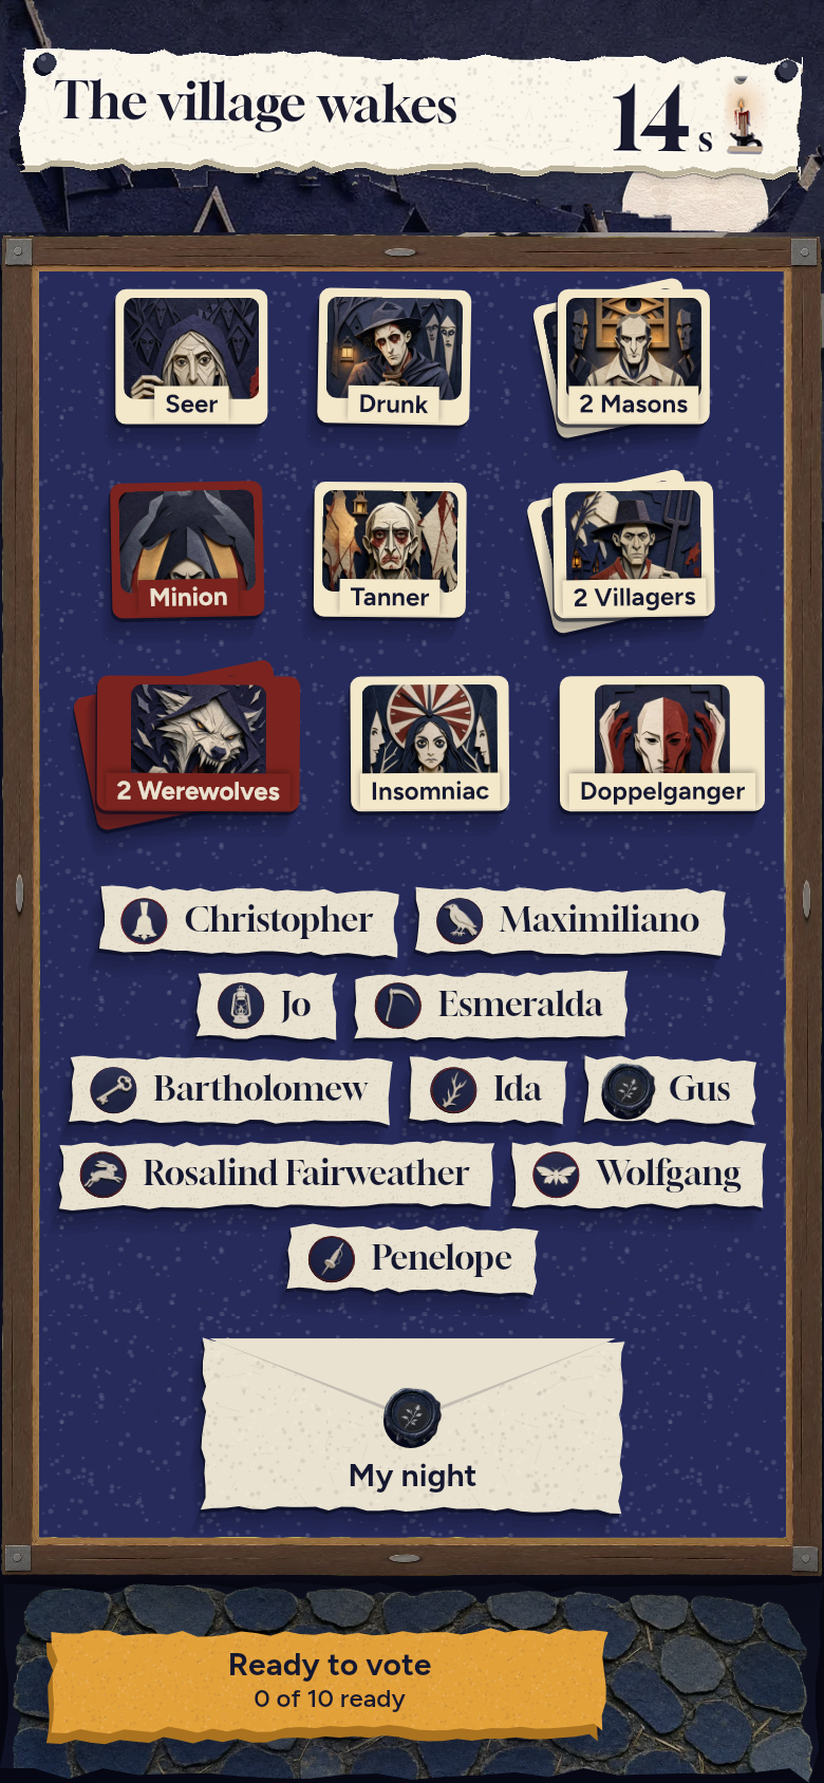
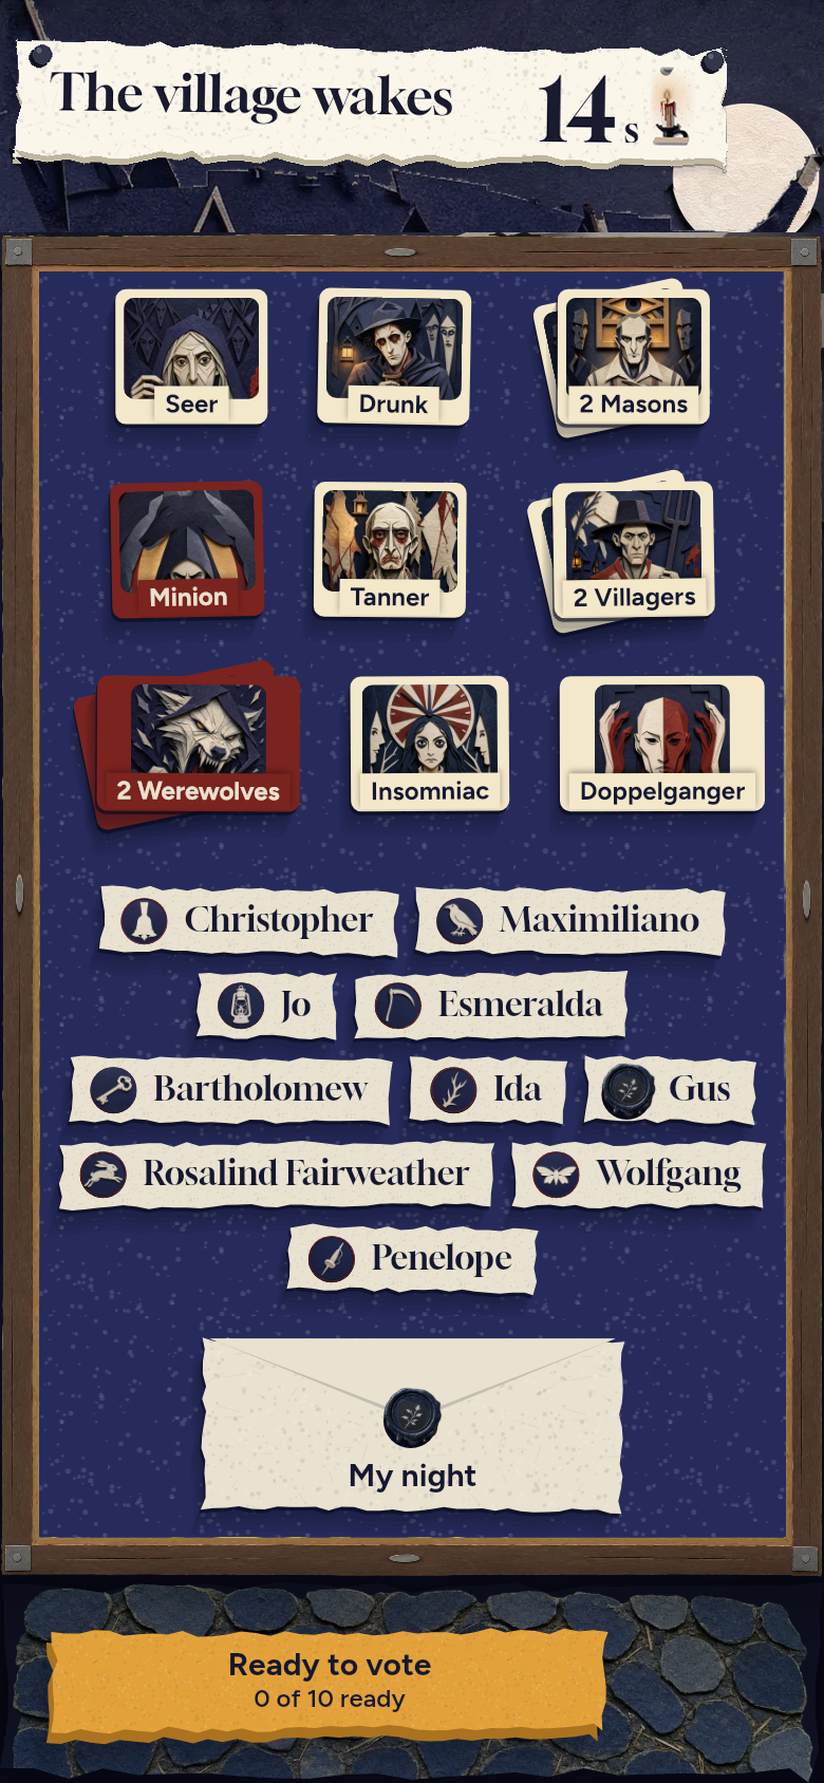
docs(design): options for the top of the talk screen
Claude-Session: https://claude.ai/code/session_01Gu8f2kSWMj5uRKDta8kGNG

Changed region(s): [[0.0, 0.0, 0.6068, 0.1234], [0.5765, 0.0, 1.0, 0.1542]]

diff --git a/docs/design/mocks/options/talk-top/make_mocks.py b/docs/design/mocks/options/talk-top/make_mocks.py
@@ -1,5 +1,9 @@
 """Options for the top of the talk screen (08): today, A, B and C, at 5 and 10 players.
 
+A: one banner (the night's and your card's) over the night sky. B: the board's roof at the top and the clock on a
+paper sign hung from its eave; at 6 players or fewer the deck is drawn larger. C: a strip of night sky with the
+roofline and the moon, the clock on the same sign hung from the lantern's bracket.
+
 Each picture is cut from the app's own renders of main (25 Nov 2026; `just screens`) and its art,
 then scaled to a 412 pt phone (824 px). Run from anywhere:
 
@@ -10,11 +14,10 @@ The renders used: 08-talk-put-away (5 players, My night put away), 08-talk-10-lo
 """
 
 import argparse
-import random
 from pathlib import Path
 
 import numpy as np
-from PIL import Image, ImageDraw, ImageEnhance
+from PIL import Image, ImageDraw, ImageEnhance, ImageFilter
 
 import paper as P
 
@@ -26,8 +29,15 @@ BLOCKS = {
     5: [(352, 797), (962, 1126), (1258, 1442)],
     10: [(248, 797), (822, 1226), (1258, 1442)],
 }
-NAME_ROWS = {5: [1003, 1084], 10: [865, 945, 1025, 1106, 1185]}
-READY = {5: [1, 3], 10: [1, 4, 8]}  # C shows some tags turned; the button counts them
+CORD = (176, 156, 120, 255)
+# B at 5 players: the deck's piles (x0, y0, x1, y1 in 08-talk-put-away), drawn larger in two columns.
+PILES = [
+    (52, 355, 238, 535),
+    (256, 355, 443, 536),
+    (472, 355, 714, 554),
+    (167, 573, 389, 792),
+    (435, 574, 626, 792),
+]
 
 
 def load(screens, name):
@@ -66,9 +76,9 @@ def night_sky(h):
     glow = Image.new("RGBA", (W, h), (0, 0, 0, 0))
     gd = ImageDraw.Draw(glow)
     for i, r in enumerate(range(170, 70, -10)):
-        gd.ellipse((655 - r, 205 - r, 655 + r, 205 + r), fill=(220, 226, 255, 5 + i))
+        gd.ellipse((700 - r, 170 - r, 700 + r, 170 + r), fill=(220, 226, 255, 5 + i))
     sky.alpha_composite(glow)
-    sky.alpha_composite(moon, (580, 132))
+    sky.alpha_composite(moon, (628, 98))
     roofs = P.art("layers/dawn_gallows/roofs_mid.webp")
     roofs = roofs.resize((W, int(roofs.height * W / roofs.width)), Image.LANCZOS)
     rgb = ImageEnhance.Brightness(roofs.convert("RGB")).enhance(0.85)
@@ -98,14 +108,62 @@ def banner(paper, nb, w, h, title):
 def option_a(t, n, nb, paper):
     sky_h = 220
     top = night_sky(sky_h)
-    b = banner(paper, nb, 742, 112, "The village wakes")
-    P.stamp(top, b, (16, 44), drop=6, lean=-0.6)
+    b = banner(paper, nb, 676, 112, "The village wakes")
+    P.stamp(top, b, (12, 36), drop=6, lean=-0.6)
     plank = t.crop((0, 200, W, 237))
     foot = t.crop((0, 1455, W, H))
     return stack([top, plank, body(t, n, H - sky_h - 37 - foot.height), foot])
 
 
 # ---------------------------------------------------------------- B: the board's own sign
+def pile(t, box, scale):
+    """One pile of the deck lifted off the felt with its shadow, drawn `scale` times larger."""
+    x0, y0, x1, y1 = box
+    m = 16
+    crop = t.crop((x0 - m, y0 - m, x1 + m, y1 + m))
+    dev = np.abs(
+        np.asarray(crop.convert("RGB")).astype(int) - np.array([38, 43, 92])
+    ).sum(axis=2)
+    keep = dev > 40
+    keep[:, :8] = keep[:, -8:] = (
+        False  # the crop's own edge (the frame can reach into it)
+    )
+    keep[:8], keep[-8:] = False, False
+    alpha = Image.fromarray((keep * 255).astype("uint8"))
+    alpha = alpha.filter(ImageFilter.MaxFilter(11)).filter(ImageFilter.GaussianBlur(4))
+    crop.putalpha(alpha)
+    return crop.resize(
+        (round(crop.width * scale), round(crop.height * scale)), Image.LANCZOS
+    ), m
+
+
+def large_deck_body(t, height, g0, scale=1.15):
+    """At 6 players or fewer: the piles larger, in two columns, and the three groups spaced evenly."""
+    tiles = Image.new("RGBA", (W, height))
+    for y in range(0, height, CLEAN.height):
+        tiles.paste(CLEAN, (0, y))
+    rows = [PILES[0:2], PILES[2:4], PILES[4:5]]
+    row_h = [round(max(b[3] - b[1] for b in r) * scale) for r in rows]
+    deck_h = sum(row_h) + 2 * 22
+    names = t.crop((0, 962, W, 1126))
+    note = t.crop((0, 1258, W, 1442))
+    free = height - g0 - 13 - deck_h - names.height - note.height
+    gap = free / 2.8
+    y = g0 + round(gap * 0.4)
+    for r, h in zip(rows, row_h):
+        sprites = [pile(t, b, scale) for b in r]
+        widths = [s.width - 2 * m * scale for s, m in sprites]
+        x = (W - sum(widths) - 44 * (len(r) - 1)) / 2
+        for (s, m), w in zip(sprites, widths):
+            tiles.alpha_composite(s, (round(x - m * scale), round(y - m * scale)))
+            x += w + 44
+        y += h + 22
+    y += round(gap) - 22
+    tiles.paste(names, (0, y))
+    tiles.paste(note, (0, y + names.height + round(gap)))
+    return tiles
+
+
 def lantern(height):
     lan = P.art("end/lantern.webp").transpose(Image.FLIP_LEFT_RIGHT)
     return lan.resize((int(lan.width * height / lan.height), height), Image.LANCZOS)
@@ -130,13 +188,17 @@ def option_b(t, n, nb, paper):
     top.paste(t.crop((0, 141, W, 237)), (0, 40))
     foot = t.crop((0, 1455, W, H))
     sign_top, sign_bottom = 112, 230
-    board = body(t, n, H - 136 - foot.height, g0_min=sign_bottom + 16 - 136)
+    g0 = sign_bottom + 16 - 136
+    if n <= 6:
+        board = large_deck_body(t, H - 136 - foot.height, g0)
+    else:
+        board = body(t, n, H - 136 - foot.height, g0_min=g0)
     page = stack([top, board, foot])
     d = ImageDraw.Draw(page)
     s = sign(paper, nb)
     sx = (W - s.width) // 2
     for nx in (sx + 26, sx + s.width - 16):  # cords from the eave to the sign's pins
-        d.line([(nx, 92), (nx, sign_top + 14)], fill=(150, 132, 104, 255), width=3)
+        d.line([(nx, 92), (nx, sign_top + 14)], fill=CORD, width=5)
         d.ellipse((nx - 5, 88, nx + 5, 98), fill=(40, 40, 52, 255))
     P.stamp(page, s, (sx, sign_top), drop=6, lean=-0.6)
     lan = lantern(181)
@@ -144,7 +206,7 @@ def option_b(t, n, nb, paper):
     return page
 
 
-# ---------------------------------------------------------------- C: the table's faces
+# ---------------------------------------------------------------- the clock off today's sky (B)
 def clear_clock(img):
     """Take today's big clock off the sky (filled down each column, so the gallows post stays)."""
     a = np.asarray(img).astype(float)
@@ -170,113 +232,58 @@ def clear_clock(img):
     return Image.fromarray(a.astype("uint8"))
 
 
-def sigils(t, n):
-    """Where each name tag's sigil disc is, in reading (seat) order: 37 px in from the tag's left edge."""
-    a = np.asarray(t.convert("RGB")).astype(int)
-    lum = a.mean(axis=2)
-    out = []
-    for y in NAME_ROWS[n]:
-        x = 40
-        while x < 700:
-            felt = ((a[y, x - 16 : x - 2, 2] - a[y, x - 16 : x - 2, 0]) > 40).any()
-            if (
-                felt
-                and (lum[y, x - 8 : x - 2] < 110).all()
-                and (lum[y, x : x + 12] > 170).all()
-            ):
-                left = x + 12 + int(np.argmax(lum[y, x + 12 : x + 40] < 110))
-                cx = left + 23
-                if (lum[y, cx - 20 : cx + 20] < 110).mean() > 0.25:
-                    out.append((cx, y, 46))
-                    x += 100
-                    continue
-            x += 1
-    return out
-
-
-def sigil_crops(t, n):
-    """Each name tag's own sigil disc, cut from the render (so a tag is the same token as its name)."""
-    a = np.asarray(t.convert("RGB")).astype(float)
-    lum = a.mean(axis=2)
-    yy, xx = np.mgrid[-32:33, -32:33]
-    r = np.hypot(xx, yy)
-    crops = []
-    for cx, cy, _ in sigils(t, n):
-        best = None
-        for dy in range(-10, 11):
-            for dx in range(-8, 9):
-                win = lum[cy + dy - 32 : cy + dy + 33, cx + dx - 32 : cx + dx + 33]
-                score = (
-                    win[(r > 25) & (r < 28)].mean() - win[(r > 18) & (r < 21.5)].mean()
-                )
-                if best is None or score > best[0]:
-                    best = (score, cx + dx, cy + dy)
-        _, x, y = best
-        crops.append(t.convert("RGB").crop((x - 23, y - 23, x + 23, y + 23)))
-    return crops
-
-
-def tag(sigil, d, turned, paper, seed):
-    tok = sigil.resize((d, d), Image.LANCZOS)
-    m = Image.new("L", (d, d), 0)
-    ImageDraw.Draw(m).ellipse((1, 1, d - 2, d - 2), fill=255)
-    if turned:  # the tag turned over: bone paper, the sigil in ink
-        face = paper.fill(d, d, seed).convert("RGB")
-        lum = np.asarray(tok).mean(axis=2)
-        sil = Image.fromarray(((lum > 150) * 255).astype("uint8"))
-        inner = Image.new("L", (d, d), 0)
-        ImageDraw.Draw(inner).ellipse(
-            (d * 0.12, d * 0.12, d * 0.88, d * 0.88), fill=255
+# ---------------------------------------------------------------- C: the square's sky
+def bracket(page, x0, x1, y):
+    """The lantern's iron bracket carried out along the eave: a bar, a brace and a curl."""
+    d = ImageDraw.Draw(page)
+    iron, shade = (34, 38, 40, 255), (7, 9, 26, 150)
+    for off, col in (((-3, 4), shade), ((0, 0), iron)):
+        ox, oy = off
+        d.line([(x0 + ox, y + oy), (x1 + ox, y + oy)], fill=col, width=7)
+        d.line(
+            [(x1 - 4 + ox, y + 52 + oy), (x1 - 120 + ox, y + 2 + oy)], fill=col, width=5
         )
-        sil = Image.fromarray(np.minimum(np.asarray(sil), np.asarray(inner)))
-        face.paste(Image.new("RGB", (d, d), P.INK), (0, 0), sil)
-        ImageDraw.Draw(face).ellipse((2, 2, d - 3, d - 3), outline=P.INK, width=2)
-        tok = face
-    out = Image.new("RGBA", (d, d + 14), (0, 0, 0, 0))
-    out.paste(tok, (0, 14), m)
-    dr = ImageDraw.Draw(out)
-    dr.line([(d // 2, 0), (d // 2, 18)], fill=(170, 152, 120, 255), width=2)
-    dr.ellipse((d // 2 - 3, 16, d // 2 + 3, 22), fill=(20, 22, 40, 255))
-    return out
+        d.arc(
+            (x0 - 14 + ox, y - 2 + oy, x0 + 10 + ox, y + 22 + oy),
+            90,
+            360,
+            fill=col,
+            width=5,
+        )
 
 
-def recount(page, ready, n):
-    """The button's count, as it reads with `ready` players ready."""
-    a = np.asarray(page.convert("RGB")).astype(int)
-    y0, y1 = 1597, 1625
-    ink = a[y0:y1, 70:560].mean(axis=2) < 110
-    xs = np.where(ink.any(axis=0))[0] + 70
-    lx, rx = xs.min(), xs.max()
-    patch = page.crop((lx - 150 - 6, y0, rx - 150 + 6, y1))
-    page.paste(patch, (lx - 6, y0))
+def option_c(t, n, nb, paper):
+    sky = Image.new("RGBA", (W, 141))
+    plate = P.art("layers/night_village/village_plate.webp").crop((0, 0, 768, 300))
+    sky.paste(plate.resize((W, int(300 * W / 768)), Image.LANCZOS).crop((0, 0, W, 141)))
+    glow = Image.new("RGBA", (W, 141), (0, 0, 0, 0))
+    gd = ImageDraw.Draw(glow)
+    for i, r in enumerate(range(130, 50, -10)):
+        gd.ellipse((170 - r, 84 - r, 170 + r, 84 + r), fill=(220, 226, 255, 5 + i))
+    sky.alpha_composite(glow)
+    moon = P.art("layers/night_village/moon.webp").crop((37, 75, 262, 296))
+    sky.alpha_composite(moon.resize((92, 90), Image.LANCZOS), (124, 40))
+    roofs = P.art("layers/dawn_gallows/roofs_mid.webp")
+    roofs = roofs.resize((W, int(roofs.height * W / roofs.width)), Image.LANCZOS)
+    rgb = ImageEnhance.Brightness(roofs.convert("RGB")).enhance(0.85)
+    rgb = Image.blend(rgb, Image.new("RGB", rgb.size, (20, 24, 58)), 0.22).convert(
+        "RGBA"
+    )
+    rgb.putalpha(roofs.getchannel("A"))
+    sky.alpha_composite(rgb, (0, 141 - 232))
+    roof = t.crop((0, 141, W, 237))
+    roof.paste(
+        t.crop((520, 141, 625, 200)), (630, 0)
+    )  # the slate under today's lantern
+    page = stack([sky, roof, t.crop((0, 237, W, H))])
+    bracket(page, 372, 742, 30)
+    s = sign(paper, nb)
+    sx, sy = 392, 50
     d = ImageDraw.Draw(page)
-    f = P.font("figtree-semi", 25)
-    text = f"{ready} of {n} ready"
-    tw, _, tb = P.text_size(d, text, f)
-    cx = (lx + rx) // 2
-    d.text((cx - tw // 2 - tb[0], 1600 - tb[1]), text, font=f, fill=(48, 42, 46))
-
-
-def option_c(t, n, paper):
-    page = clear_clock(t).convert("RGBA")
-    d = ImageDraw.Draw(page)
-    P.clock(d, 132, 76, 44, P.BONE_TEXT)
-    cord = P.sag(150, 40, 632, 34, 16)
-    d.line(cord, fill=(170, 152, 120, 255), width=3)
-    for nx, ny in (cord[0], cord[-1]):  # the cord's two nails
-        d.ellipse((nx - 5, ny - 5, nx + 5, ny + 5), fill=(40, 40, 52, 255))
-    toks = sigil_crops(t, n)
-    size = 58 if n <= 6 else 42
-    x0, x1 = 176, 606
-    step = (x1 - x0) / max(1, n - 1)
-    rnd = random.Random(n)
-    for i, p in enumerate(toks):
-        x = x0 + step * i
-        y = np.interp(x, [q[0] for q in cord], [q[1] for q in cord])
-        piece = tag(p, size, i in READY[n], paper, i)
-        sw, (ax, ay) = P.swing(piece, rnd.uniform(-5, 5), (size // 2, 0))
-        P.stamp(page, sw, (int(x - ax), int(y - ay)), drop=4, lean=-0.6)
-    recount(page, len(READY[n]), n)
+    for nx in (sx + 26, sx + s.width - 16):  # cords from the bracket to the sign's pins
+        d.line([(nx, 33), (nx, sy + 14)], fill=CORD, width=5)
+    P.stamp(page, s, (sx, sy), drop=6, lean=-0.6)
+    page.alpha_composite(lantern(181), (639, -1))
     return page
 
 
@@ -317,12 +324,12 @@ def main():
         made[f"today-{n}"] = save(talk[n], f"today-{n}")
         made[f"a-{n}"] = save(option_a(talk[n], n, nb, paper), f"a-{n}")
         made[f"b-{n}"] = save(option_b(talk[n], n, nb, paper), f"b-{n}")
-        made[f"c-{n}"] = save(option_c(talk[n], n, paper), f"c-{n}")
+        made[f"c-{n}"] = save(option_c(talk[n], n, nb, paper), f"c-{n}")
     labels = {
         "today": "Today",
-        "a": "A  One banner",
+        "a": "A  One banner (+ words)",
         "b": "B  The board's sign",
-        "c": "C  The table's faces",
+        "c": "C  The square's sky",
     }
     sheet(
         [

diff --git a/docs/design/mocks/options/talk-top/CARD.md b/docs/design/mocks/options/talk-top/CARD.md
@@ -7,38 +7,41 @@ I'd like to see something better there".
 
 - **title:** What goes at the top of the talk?
 - **what:** Today and three options, each at 5 and 10 players.
-- **ask:** Mark the one you want, then Send my pick.
+- **ask:** Mark the one you want, then Send my pick. A adds a line of words the screen does not have today.
 - **pick:** one
 - **pictures** (each option's 10-player picture goes in its `views`, caption "10 players"):
 
 | id | picture | 10 players (view) | caption |
 |---|---|---|---|
-| `today` | `today-5.png` | `today-10.png` | Today: a bare clock in the sky |
-| `a` | `a-5.png` | `a-10.png` | A: one banner on every screen |
+| `today` | `today-5.png` | `today-10.png` | Today: a bare clock, empty sky |
+| `a` | `a-5.png` | `a-10.png` | A: banner, adds "The village wakes" |
 | `b` | `b-5.png` | `b-10.png` | B: the clock on a sign |
-| `c` | `c-5.png` | `c-10.png` | C: everyone's tags on a line |
+| `c` | `c-5.png` | `c-10.png` | C: moonlit sky, the clock's sign |
 
 - **default:** We build B.
 - **default_choice:** `b`
 
-pick: B, because the board itself fills the top: no new words, the clock on the same paper and candle as the other screens,
-and the most room for the names at 10 players.
+pick: B, because it fills the top with the board itself and adds no words;
+its sign is the same paper, numerals and candle as the other screens' banner, so the clock is recognisably one thing all game.
 
 ## What each option is
 
 - **A, one banner:** the torn paper banner of 04 and the night (title left, time and candle right), pinned over the night sky;
-  the village roofs and the moon show under it. The board's slate roof and the lantern go.
+  the village roofs and the moon show under it and beside it. The board's slate roof and the lantern go.
+  It adds a line of words the screen does not have today: "The village wakes" (the talk's headline, today only spoken).
 - **B, the board's sign:** the sky strip goes; the board's roof and lantern sit at the top of the phone,
   and a paper sign hangs from the eave with the time and the candle. The board starts about 50 pt higher.
-- **C, the table's faces:** today's sky keeps its roof and lantern; every player's token hangs on a cord as a tag,
-  a ready player's tag turned over (bone paper), the time smaller at the left.
+  At 6 players or fewer the role cards are drawn larger, in two columns (the spec's first deck size),
+  and the roles, the names and My night are spaced evenly down the board; at 10 players the board is as today.
+- **C, the square's sky:** today's strip of sky stays, as a picture: the night village's roofline and the game's moon,
+  the lantern as today, and the time on B's paper sign, hung from the lantern's bracket. No new words.
 
 ## What is rough (be honest with the owner)
 
-- A draws "The village wakes", the talk's headline, which today is only spoken (spec 08); at 10 players it takes about 10 pt from the board's gaps.
-- A's banner hides most of the village: only roof tips and half the moon show.
-- B's cords are faint, and the lantern hangs from the top edge of the phone, as it does today.
-- C shows who is ready, which the owner took off the board on 23 Nov ("no list of who is ready"); its tags repeat the sigils on the name tags, and at 10 players a tag is 21 pt.
+- A at 10 players takes about 10 pt from the board's gaps; its banner still hides most of the roofs.
+- B at 5 players: the role cards are the render's own cards scaled 1.15 times (1.25 does not fit with the names and My night), so they are a little soft.
+- B and C: the lantern hangs from the top edge of the phone, as it does today; C's bracket is drawn, not art.
+- C's sky is narrow: the roofline and the moon are small, and the sign covers part of it.
 - Every picture is cut from the 25 Nov renders: the board's gaps were cut or grown by rows of felt, not laid out by the app,
   and the banner and sign are new paper cut from 06's banner, with the clock set in Gloock.
 - 5 players are shown with My night put away (`08-talk-put-away`); 10 players are `08-talk-10-long`.
